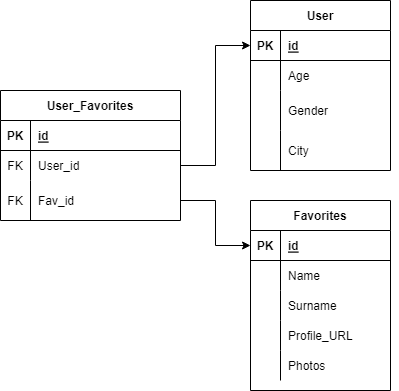
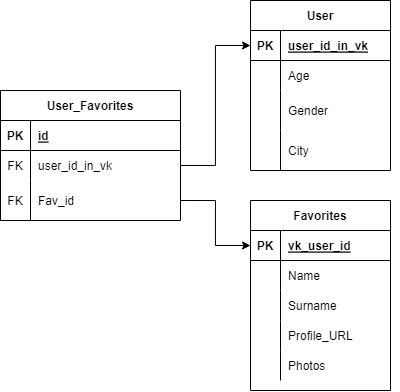
UPD doc and db scheme files

diff --git a/docs/files_list.md b/docs/files_list.md
@@ -7,16 +7,16 @@
 1. [bot.py](https://github.com/Netology-Team-5/VKinder/blob/main/bot.py)
 Скрипт, который работает с VK api, базой данных и общается с пользователем в VK.
 - `def write_msg` - функция, позволяющая отвечать на сообщения юзера;
-- `def paste_foto` - функция, позволяющая выводит фотографии подходящих людей под критерии поиска. 
+- `def paste_foto` - функция выводит фотографии подходящих людей под критерии поиска. 
 
 2. [info_vk.py](https://github.com/Netology-Team-5/VKinder/blob/main/info_vk.py)
 Класс с функциями для работы с API vk:
-- `def get_user_data_only` - функция, возвращает параметры юзера для поиска. 
+- `def get_user_data_only` - функция, возвращает параметры юзера для поиска.   
 Если не указана дата рождения, то возраст рассчитывается как ср арифм возрастов друзей;
 - `def average_friends_age` - функция, возвращает средний возраст друзей, если в профиле юзера не указана ГОД рождения;
 - `def get_user_data_for_search` - функция, возвращает все параметры юзера для поиска;
-- `def get_photos` - функция, возвращает 3 фотографии подходящего человека под критерии поиска;
-- `def get_suitable` - функция, собирает по подходящим людям под критерии поиска информацию:(Имя, Фамилия, URL фотографий и лайки к ним)
+- `def get_photos` - функция, возвращает 3 самые популярные фотографии подходящего человека;
+- `def get_suitable` - функция, собирает информацию подходящих людей под критерии поиска:(Имя, Фамилия, URL)
 
 4. [VKinder_db_engine.py](https://github.com/Netology-Team-5/VKinder/blob/main/VKinder_db_engine.py)
 Класс с функциями для работы с базой данных:
@@ -25,12 +25,12 @@
 - `def new_vk_user` - функция, позволяющая добавить нового юзера;
 - `def vk_user_editor` - функция, позволяющая изменить данные о юзере;
 - `def favorites` - функция, позволяющая добавить в избранные новую запись;
-- `def fav_user` - функция, связать запись в избранных с юзером;
+- `def fav_user` - функция, позволяющая связать запись в избранных с юзером;
 - `def get_fav_users` - функция, выводит список избранных людей юзера; 
 - `def vk_user_removal` - функция, позволяющая удалить запись из таблицы по id; 
 
 5. [VKinder_db_input.py](https://github.com/Netology-Team-5/VKinder/blob/main/VKinder_db_input.py)
-Скрипты для работы с базой данных (создание, заполнение таблиц для проверки и тестирования). 
+Скрипты для проверки и тестирования базы данных (создание, заполнение таблиц). 
 
 6. [tokens.ini](https://github.com/Netology-Team-5/VKinder/blob/main/tokens.ini)
 Токены для работы с API vk

diff --git a/docs/how_to_start.md b/docs/how_to_start.md
@@ -7,36 +7,36 @@
 1. Установить PostgreSQL. 
 
 2. Установить базу данных через терминал командой:
-`createbd -U логин имя_бд`
-`По умочанию логин:postgres, имя_бд: VKinder`
-`createbd -U postgres VKinder`
+```
+createbd -U логин имя_бд
+По умочанию логин:postgres, имя_бд: VKinder
+createbd -U postgres VKinder
+```
 
-3. В файле [base_settings.ini](https://github.com/Netology-Team-5/VKinder/blob/main/base_settings.ini) прописать:
+4. В файле [base_settings.ini](https://github.com/Netology-Team-5/VKinder/blob/main/base_settings.ini) прописать:
 - Имя бд к `db_name`(по умолчанию `= VKinder`);
 - Логин postgres к `user_name`(по умолчание `postgres`);
 - Пароль postgres к `user_password`.
 
-4. В файле `tokens.ini` прописать токен к VK.
+4. В файле [tokens.ini](https://github.com/Netology-Team-5/VKinder/blob/main/tokens.ini) прописать токен к VK.
 - Сгенерировать личный ключ по [ссылке](https://oauth.vk.com/oauth/authorize?client_id=51432598&scope=65536&redirect_uri=https://vk.com/im?media%3D&sel=-216114574&display=popup&response_type=token&slogin_h=9a90a048692bb5042b.5b693fa27bae8d0d3a&__q_hash=a744e6552469a618bf825b408b432d41) 
 - В `[TOKEN_SEARCH]` добавить личный ключ
+- В `[TOKEN_BOT]` лежит ключ на группу. Его трогать не надо. 
 
-В `[TOKEN_BOT]` лежит ключ на группу. Его трогать не надо. 
+5. Запустить [бота](https://github.com/Netology-Team-5/VKinder/blob/main/VKinder/bot.py).
 
-5. Запустить [бота](https://github.com/Netology-Team-5/blob/main/VKinder/bot.py).
-
-6. Войти в vk в группу [Team5 VKinder](https://vk.com/club216099509)
-7. Написать сообщение сообществу "Привет"
-8. Перейти к своим личным сообщениям и открыть диалог с ботом. 
+6. Войти в личный чат группу [Team5 VKinder](https://vk.com/im?sel=-216099509)
+7. Написать сообщение "Привет" 
 9. Нажать на кнопку Поиск. 
 - Бот выведет на экран подходящего под критерии поиска человека. 
 
 Кнопки:
-- `Поиск` - программа выполнит новый поиск. 
+- `Поиск` - программа выполнит новый поиск.  
 Имеет смысл повторно нажимать, чтобы в выборку попали новые пользователи, которых не было на момент выполнения первого поиска.
 
 - `Следующий` - выведет на экран, следующего человека, подходящего под критерии поиска.
 
-- `Избранное` - добавит текущего на экране человека в подборку "Избранное"
+- `В избранное` - добавит текущего на экране человека в подборку "Избранное"
 
-- `Список избранных` - выведет на экран поочередно, всех людей, которых добавили в "Избранное"
+- `Показать избранное` - выведет на экран поочередно, всех людей, которых добавили в "Избранное"
 

diff --git a/README.md b/README.md
@@ -11,7 +11,7 @@
 ```
 Имя Фамилия
 ссылка на профиль
-три фотографии в виде attachment(https://dev.vk.com/method/messages.send)
+три фотографии в виде attachment
 ```
 4. Переходит к следующему человеку с помощью кнопки.
 5. Сохраняет подходящих людей в список избранных.
@@ -20,8 +20,10 @@
 
 ### Зависимости
 - python (3.4+)
-- pip
-- python-dev
+- postgreSQL (14+)
+- psycopg2 (2.9.3+)
+- requests (2.28.1+)
+- vk-api (11.9.9+)
 
 ### Документация
 - [Как работать](https://github.com/Netology-Team-5/VKinder/blob/main/docs/how_to_start.md)
